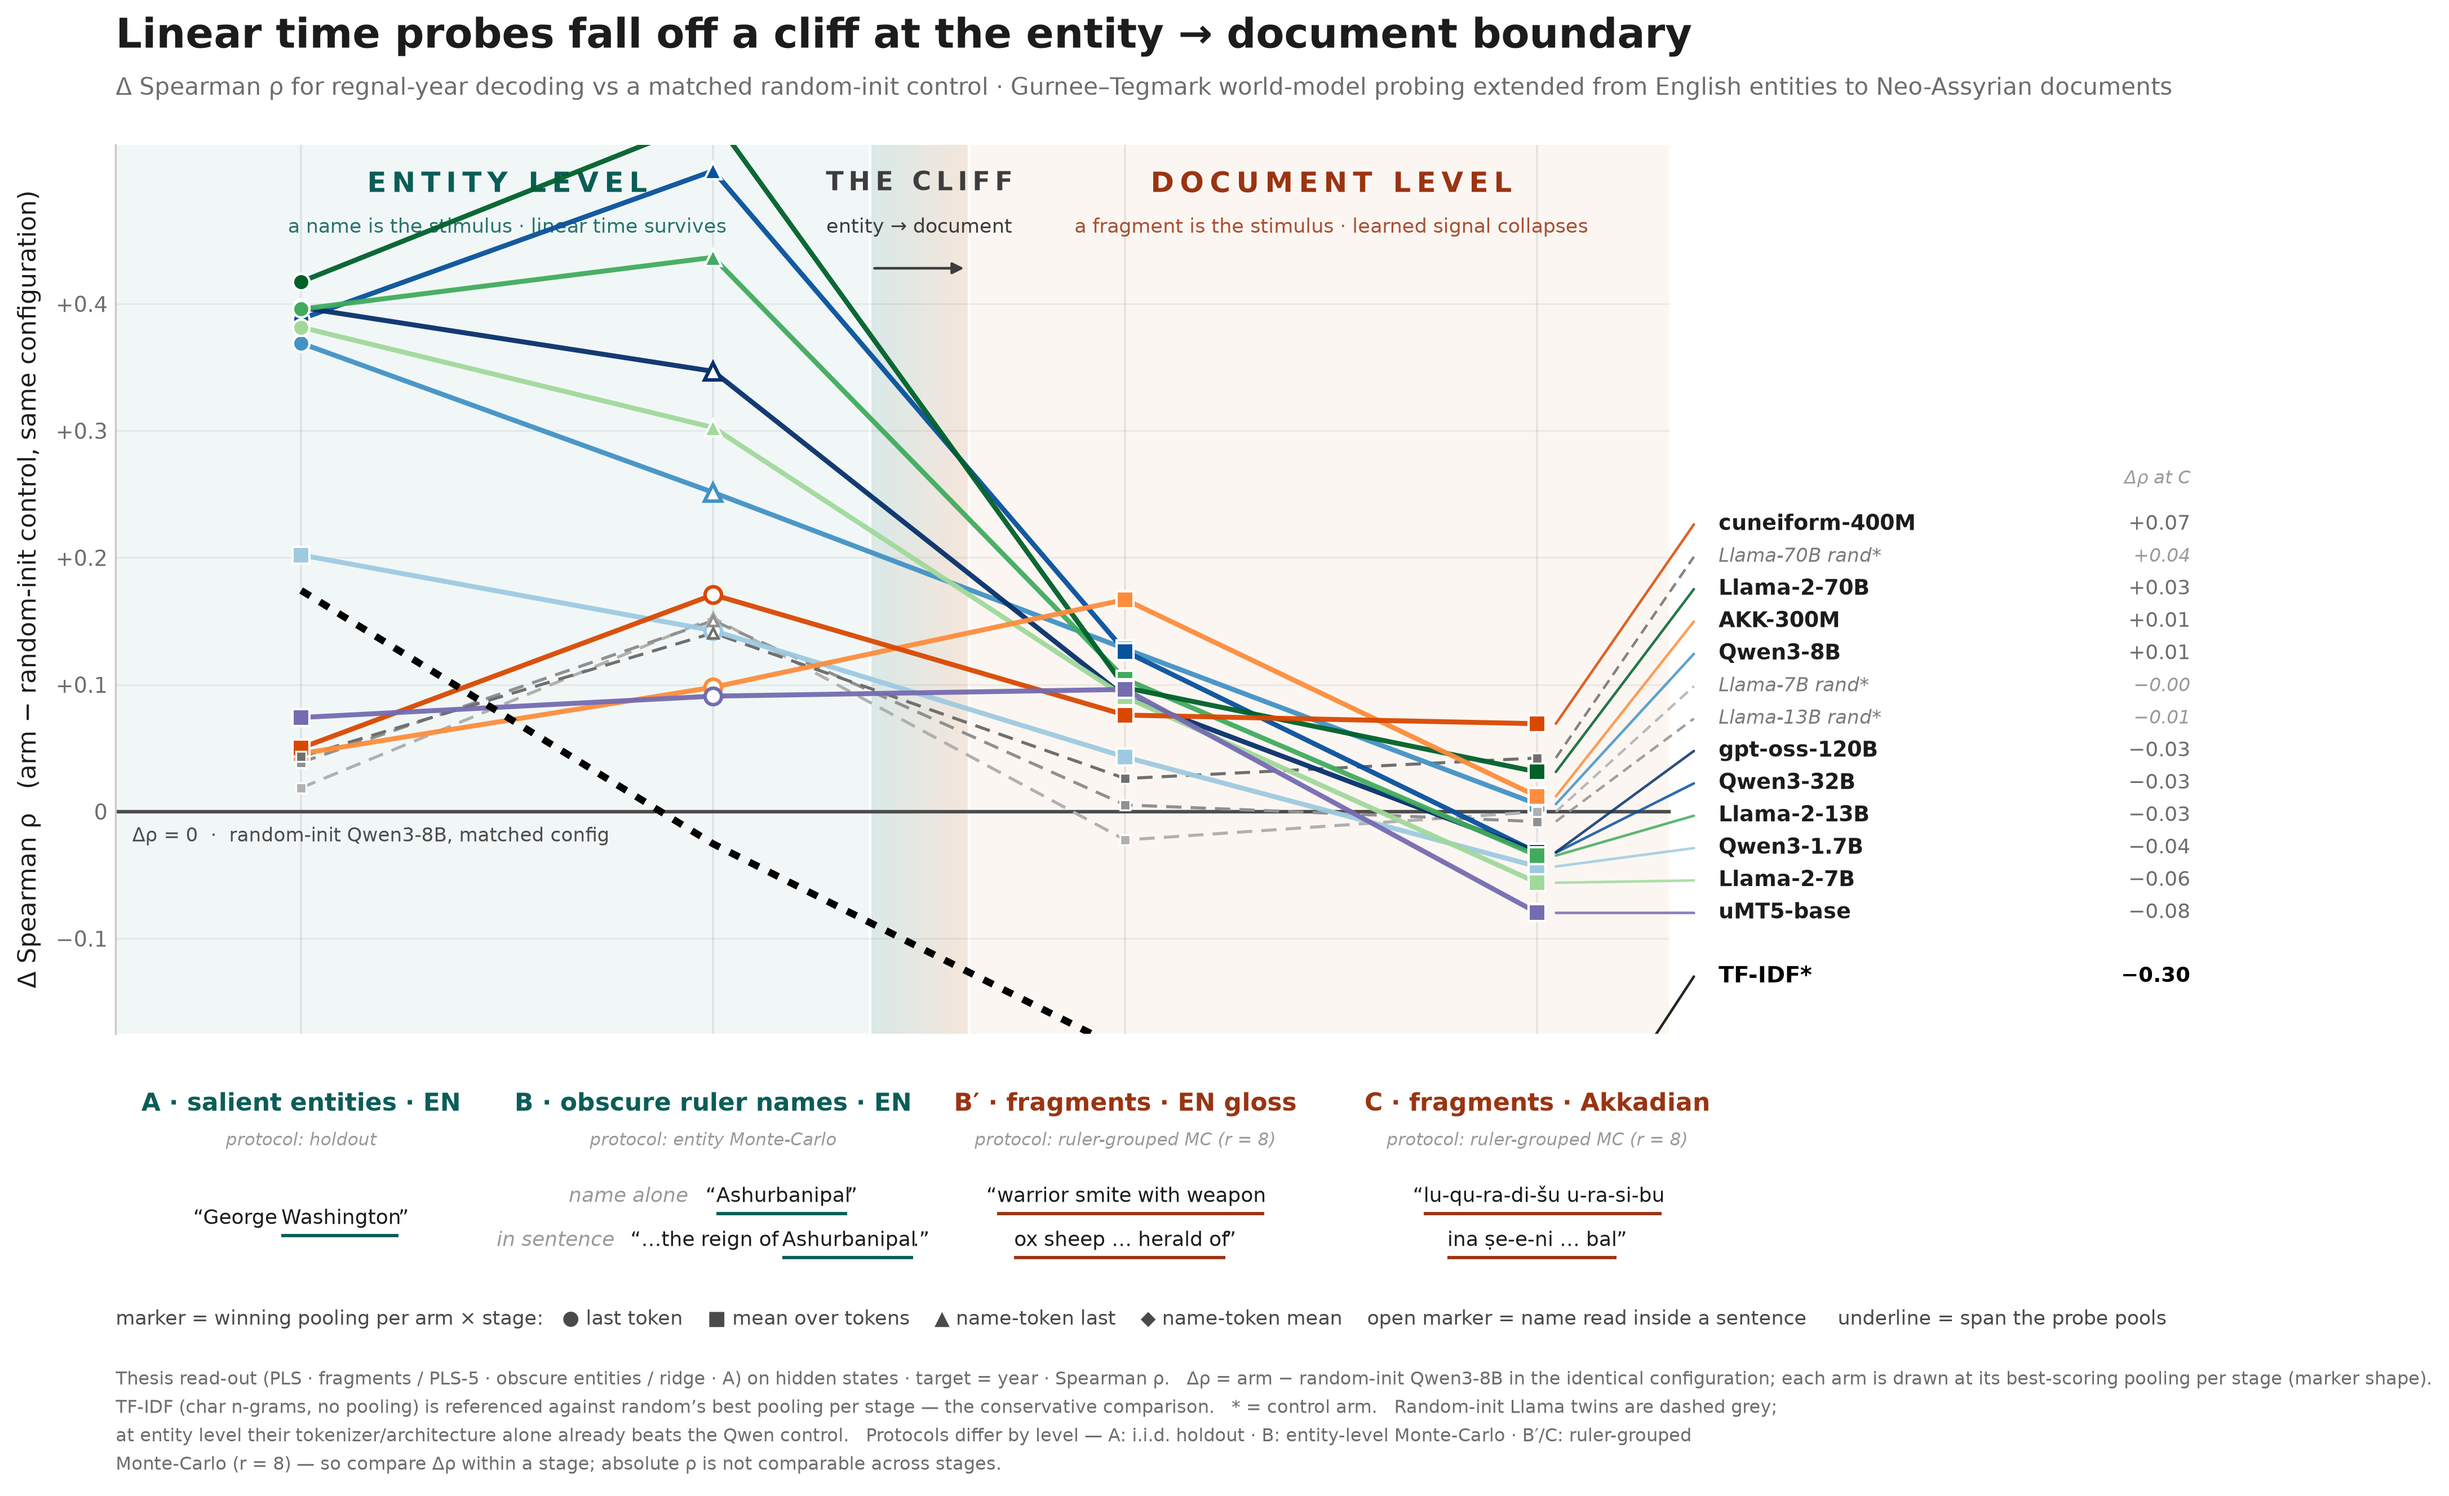
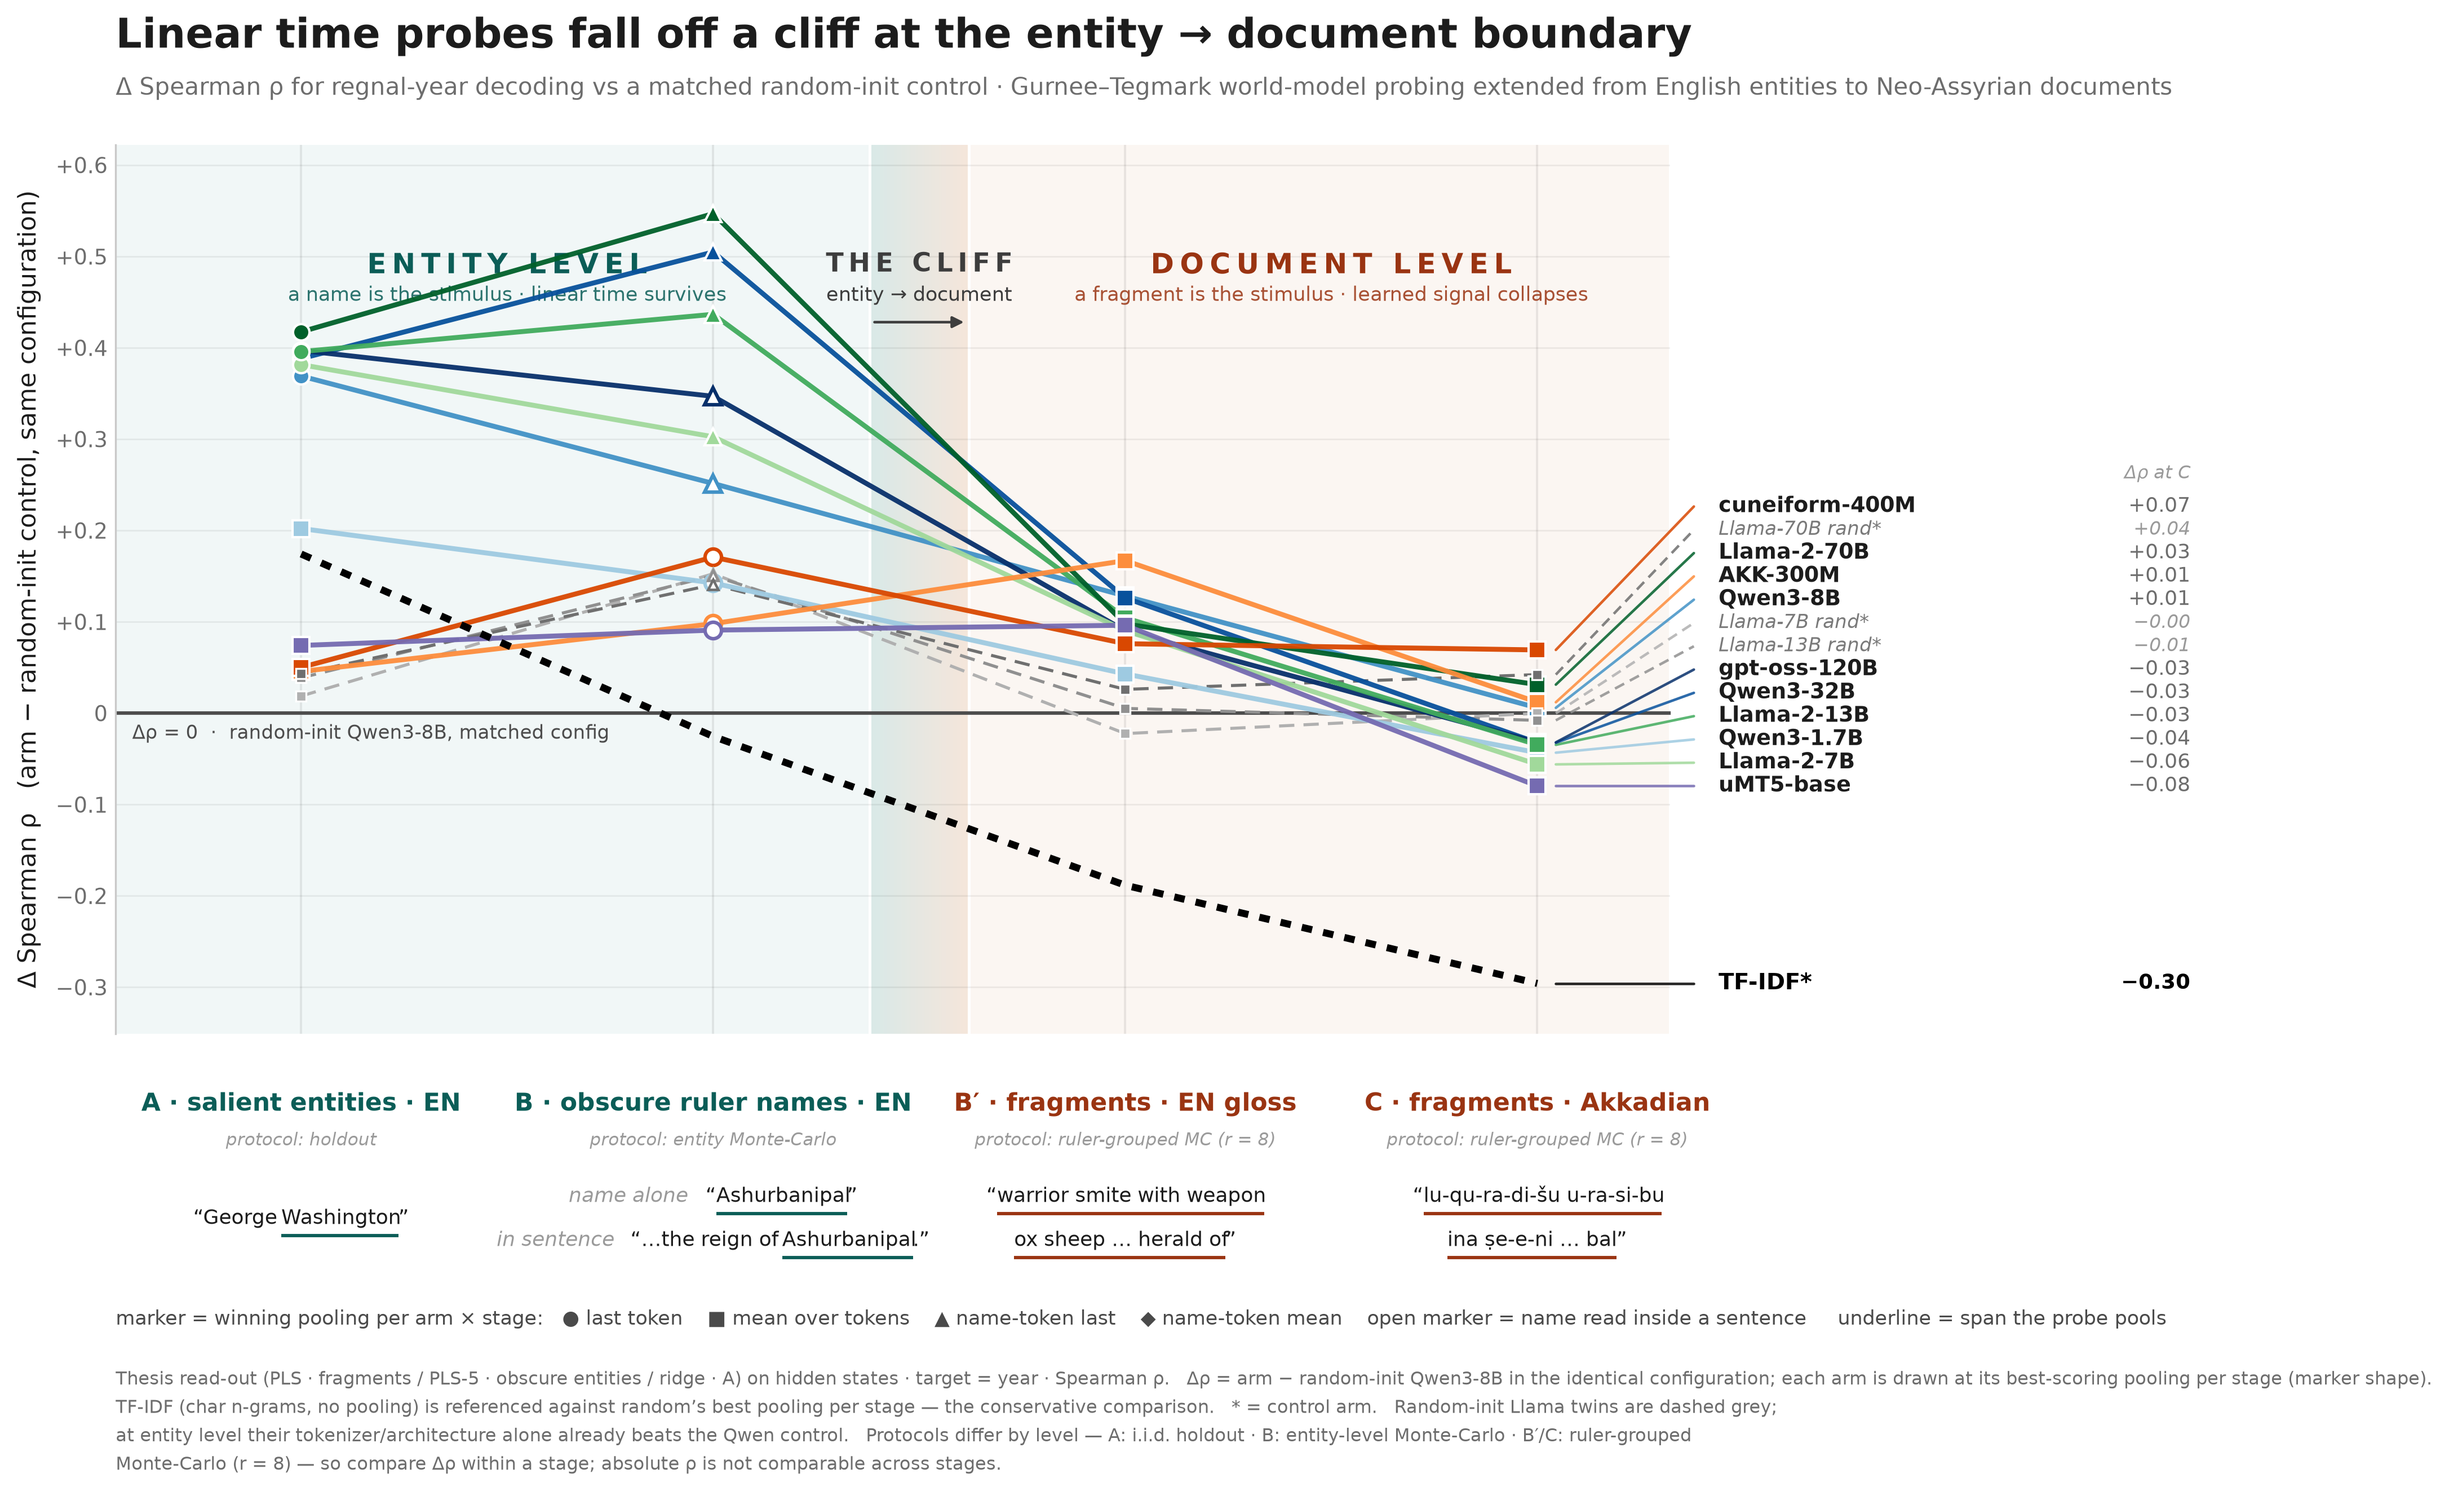
slopegraph: derive the y-window from the data instead of hard-coding it
YLO/YHI were fixed at (-0.175, 0.525), which fit the ridge read-out only. Under the
deck and PLS read-outs the entity-level lines peak at +0.55 and TF-IDF falls to -0.30,
so both the best-performing arm and the floor were being clipped off the canvas. The
window and the y-ticks now follow min/max of the plotted deltas with padding for the
marker radius, so every read-out frames its own full range.

Claude-Session: https://claude.ai/code/session_01JHeh78QKdtqCUQ199CcdUa

diff --git a/v_1/src/world_models/figures/designs/slopegraph.py b/v_1/src/world_models/figures/designs/slopegraph.py
@@ -107,7 +107,11 @@ plt.rcParams.update({"font.family": "DejaVu Sans", "axes.linewidth": 0.8,
 fig = plt.figure(figsize=(13.4, 9.3), dpi=110)
 ax = fig.add_axes([0.058, 0.335, 0.922, 0.565])
 
-YLO, YHI = -0.175, 0.525
+# The y-window is derived from the data, not hard-coded: under the deck/PLS read-outs
+# the entity-level lines run higher and TF-IDF runs much lower than under ridge, and a
+# fixed window clipped both ends. Pad enough for the marker radius and the top labels.
+_vals = [best[m][s][0] for m in best for s in S]
+YLO, YHI = min(_vals) - 0.055, max(_vals) + 0.075
 ax.set_xlim(-0.45, 4.62)
 ax.set_ylim(YLO, YHI)
 
@@ -121,8 +125,12 @@ for xe in (1.38, 1.62):
     ax.axvline(xe, color="#ffffff", lw=1.2, zorder=1)
 
 # recessive grid + stage rules (kept out of the label gutter)
+# Ticks follow the same data-derived window as the axis, so a read-out that pushes
+# TF-IDF to -0.30 still gets labelled gridlines all the way down.
+YTICKS = np.arange(np.floor(YLO * 10) / 10, np.ceil(YHI * 10) / 10 + 1e-9, 0.1)
+YTICKS = YTICKS[(YTICKS >= YLO) & (YTICKS <= YHI)]
 GXR = 3.32
-for gy in np.arange(-0.1, 0.5, 0.1):
+for gy in YTICKS:
     ax.plot([-0.45, GXR], [gy, gy], color="#000000", alpha=0.06, lw=0.7, zorder=1)
 for xs in X:
     ax.axvline(xs, color="#000000", alpha=0.08, lw=0.9, zorder=1)
@@ -131,9 +139,9 @@ ax.text(-0.41, -0.012, "Δρ = 0  ·  random-init Qwen3-8B, matched config",
         fontsize=8.2, color="#4d4d4d", va="top", ha="left", zorder=2)
 
 ax.set_xticks([])
-ax.set_yticks(np.arange(-0.1, 0.5, 0.1))
+ax.set_yticks(YTICKS)
 ax.set_yticklabels([f"{v:+.1f}".replace("-", "−") if abs(v) > 1e-9 else "0"
-                    for v in np.arange(-0.1, 0.5, 0.1)], fontsize=9, color=MUT)
+                    for v in YTICKS], fontsize=9, color=MUT)
 ax.set_ylabel("Δ Spearman ρ   (arm − random-init control, same configuration)",
               fontsize=10.5, color=INK, labelpad=6)
 for sp in ("top", "right", "bottom"):
